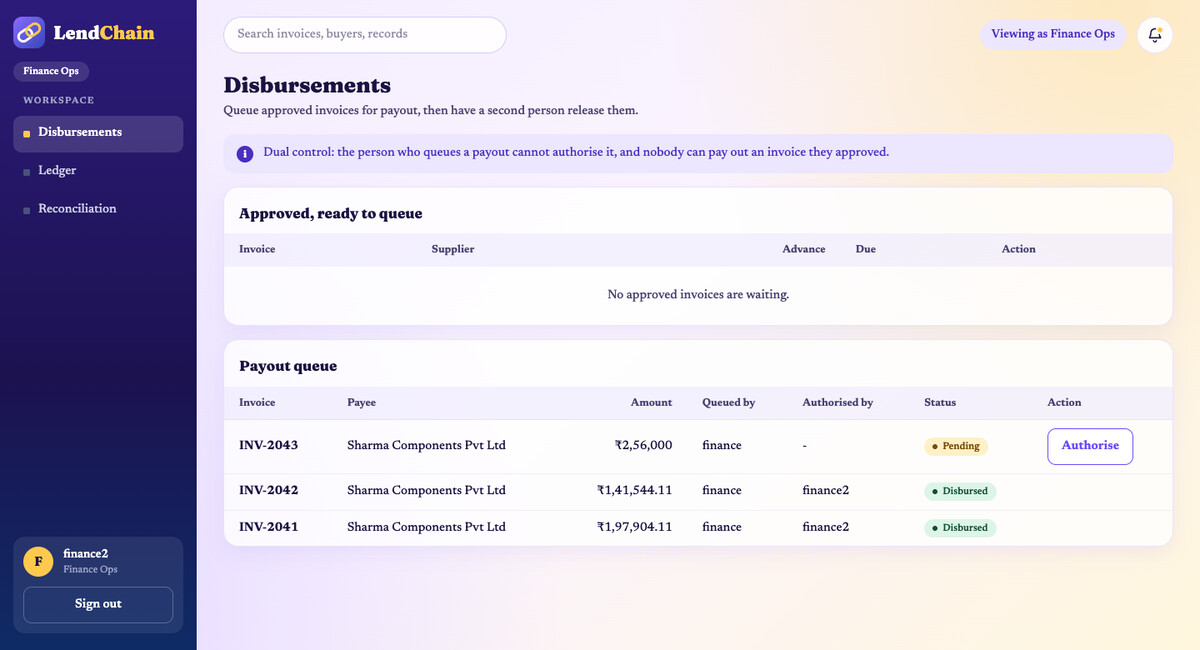
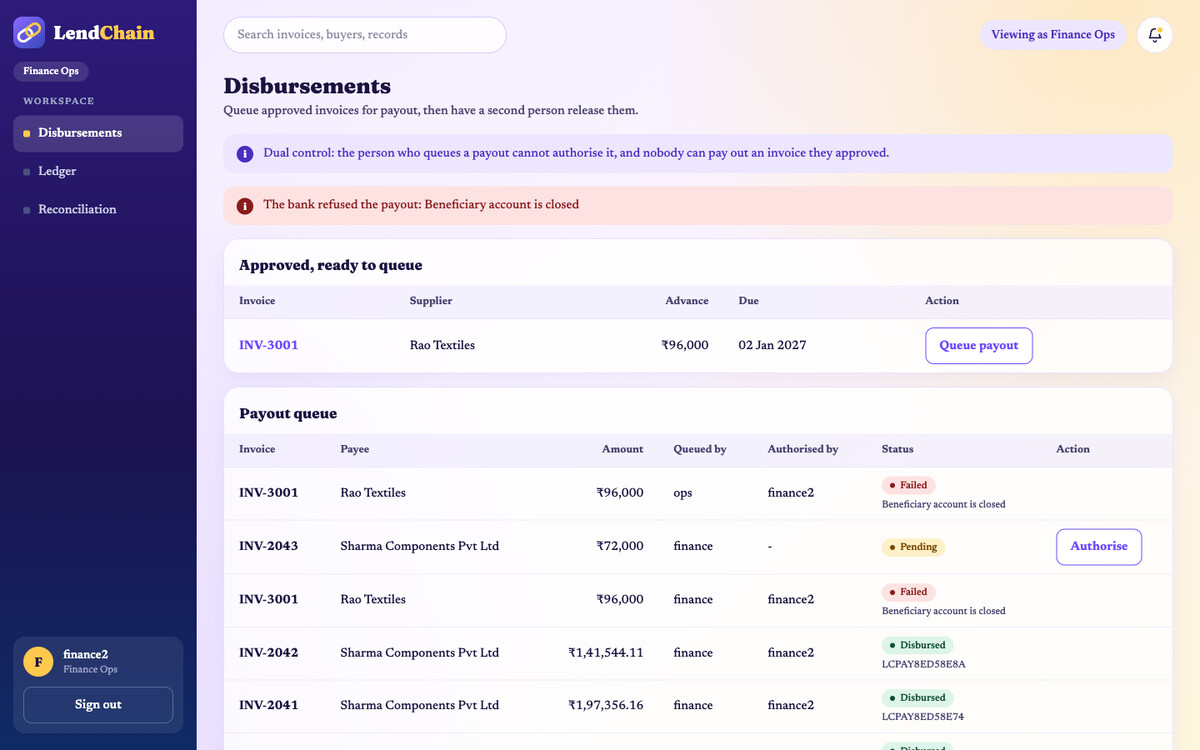
Add ledger and operations screenshots to the README

diff --git a/README.md b/README.md
@@ -35,6 +35,19 @@ Taken from the running app with the demo data. Each screen is shown for the role
 ![Rule draft and back-test](docs/screenshots/11-rule-draft-backtest.jpg)
 ![Pricing grid](docs/screenshots/12-pricing-grid.jpg)
 
+**Ledger and accounts.** Entries are append-only. The trial balance has no difference after every flow, interest taken at payout is earned day by day, and a month is closed by one accountant and signed off by another.
+
+![Ledger](docs/screenshots/15-ledger.jpg)
+![Trial balance](docs/screenshots/16-trial-balance.jpg)
+![Accruals](docs/screenshots/17-accruals.jpg)
+![Period close](docs/screenshots/18-period-close.jpg)
+
+**Operations.** A payout the bank refuses goes to the exception queue and can be retried. Bank statements are uploaded as CSV and matched against the ledger.
+
+![Exceptions](docs/screenshots/19-exceptions.jpg)
+![Reconciliation](docs/screenshots/20-reconciliation.jpg)
+![Payout monitor](docs/screenshots/21-payout-monitor.jpg)
+
 **Audit log and access map.**
 
 ![Audit log](docs/screenshots/13-audit-log.jpg)
@@ -50,7 +63,7 @@ npm install
 npm run dev
 ```
 
-With no `MONGO_URI` set, the server starts an in-memory MongoDB replica set and loads demo data. Demo users are `supplier@`, `buyer@`, `analyst@`, `approver@`, `finance@`, `finance2@`, `ops@` (Operations), `accounts@`, `collections@`, `risk1@`, `risk2@` and `admin@` `lendchain.test`, all with the password `Demo@1234`.
+With no `MONGO_URI` set, the server starts an in-memory MongoDB replica set and loads demo data. Demo users are `supplier@`, `buyer@`, `analyst@`, `approver@`, `finance@`, `finance2@`, `ops@` (Operations), `accounts@`, `accounts2@`, `collections@`, `risk1@`, `risk2@` and `admin@` `lendchain.test`, all with the password `Demo@1234`.
 
 ```
 cd client
@@ -72,7 +85,7 @@ npm run dev
 
 The dev server forwards `/api/*` to the API at `http://localhost:5000`. Set `API_TARGET` to point the proxy somewhere else, or `VITE_API_URL` to call an API directly.
 
-Sign-in and the invoice flow use the real API: onboarding and KYC, programs, invoices, financing, buyer confirm or dispute, credit review, the two-step payout, repayment, notifications, rule sets (drafts, back-test, publish by a second reviewer) and the pricing grid, users and roles, access map and audit log. Ledger, Operations, Accounts, Collections and the admin overview still show sample data from `src/data/sample.ts` and are marked "Sample data" in the page title.
+Sign-in and the invoice flow use the real API: onboarding and KYC, programs, invoices, financing, buyer confirm or dispute, credit review, the two-step payout, repayment, notifications, rule sets (drafts, back-test, publish by a second reviewer) and the pricing grid, the ledger, trial balance, accruals and period close, exceptions, payout monitor and bank reconciliation, users and roles, access map and audit log. Collections ageing and the admin overview still show sample data from `src/data/sample.ts` and are marked "Sample data" in the page title.
 
 Demo logins (password `Demo@1234`). The server has no second sign-in step yet.
 
@@ -84,14 +97,14 @@ Demo logins (password `Demo@1234`). The server has no second sign-in step yet.
 | Approver | `approver@lendchain.test` |
 | Finance Ops | `finance@lendchain.test` |
 | Operations | `ops@lendchain.test` |
-| Accounts | `accounts@lendchain.test` |
+| Accounts | `accounts@lendchain.test` and `accounts2@lendchain.test` (period close needs two) |
 | Collections | `collections@lendchain.test` |
 | Risk Admin | `risk1@lendchain.test` |
 | Admin | `admin@lendchain.test` |
 
 Menus, routes and buttons follow the permission list the server returns at login. `src/lib/access.ts` holds the one small mapping from permission keys to the sections a role sees in full or read-only. These checks only change what the UI shows. They are not security: the server must enforce every permission and every maker-checker rule itself, whatever the client hides.
 
-These menu items open a "coming soon" page: Repayments (buyer), Decisions, Approved, Rejected, Limits, Payout monitor, Master data, Settlements, Tax & GST, Follow-ups, Overdue and Settings.
+These menu items open a "coming soon" page: Repayments (buyer), Decisions, Approved, Rejected, Limits, Master data, Settlements, Tax & GST, Follow-ups, Overdue and Settings.
 
 ## Tests
 
@@ -112,7 +125,12 @@ npm run e2e
 ## Design notes
 
 - Money is stored as integer paise.
+- The ledger is append-only (updates and deletes are refused). Every transaction must balance, and the trial balance also checks each transaction on its own.
+- Interest taken at payout is booked as unearned interest and moved to income one day at a time. A day can only be accrued once (its run record is unique and is written in the same transaction as the postings), and what is left is released when the invoice is repaid.
+- A period is a calendar month. One accountant requests the close, a different one signs it off, and the month must have ended with a balanced trial balance. After that nothing can be posted into it: corrections are reversal entries dated in the open period.
+- Payouts go through a mock bank that refuses accounts ending in `0000` (the seeded Rao Textiles account is one, so a failed payout can be shown). A refusal marks the payout failed, leaves the invoice approved, and creates an exception. Retrying queues a new payout that a different person still has to authorise.
+- The bank webhook (`POST /webhooks/bank`) checks an HMAC signature over the raw body with `BANK_WEBHOOK_SECRET`. A bad signature, an unreadable body or an unknown payout reference becomes an exception instead of being trusted.
+- Reconciliation takes a CSV (`date,reference,description,debit,credit`). A line matches a ledger cash entry by reference and amount, or by amount and date when there is a single candidate, and no entry is matched twice. A demo statement with a few deliberate differences can be generated from the ledger.
 - The rule engine is a pure module. Rules live in the database as JSON and are versioned; every evaluation stores the rule set version, the facts and the full trace.
 - Program limits are reserved with a single conditional update so parallel requests cannot go over the limit.
 - Disbursement, ledger posting and the status change run in one MongoDB transaction.
-- The ledger repository only inserts. Corrections are reversals.
